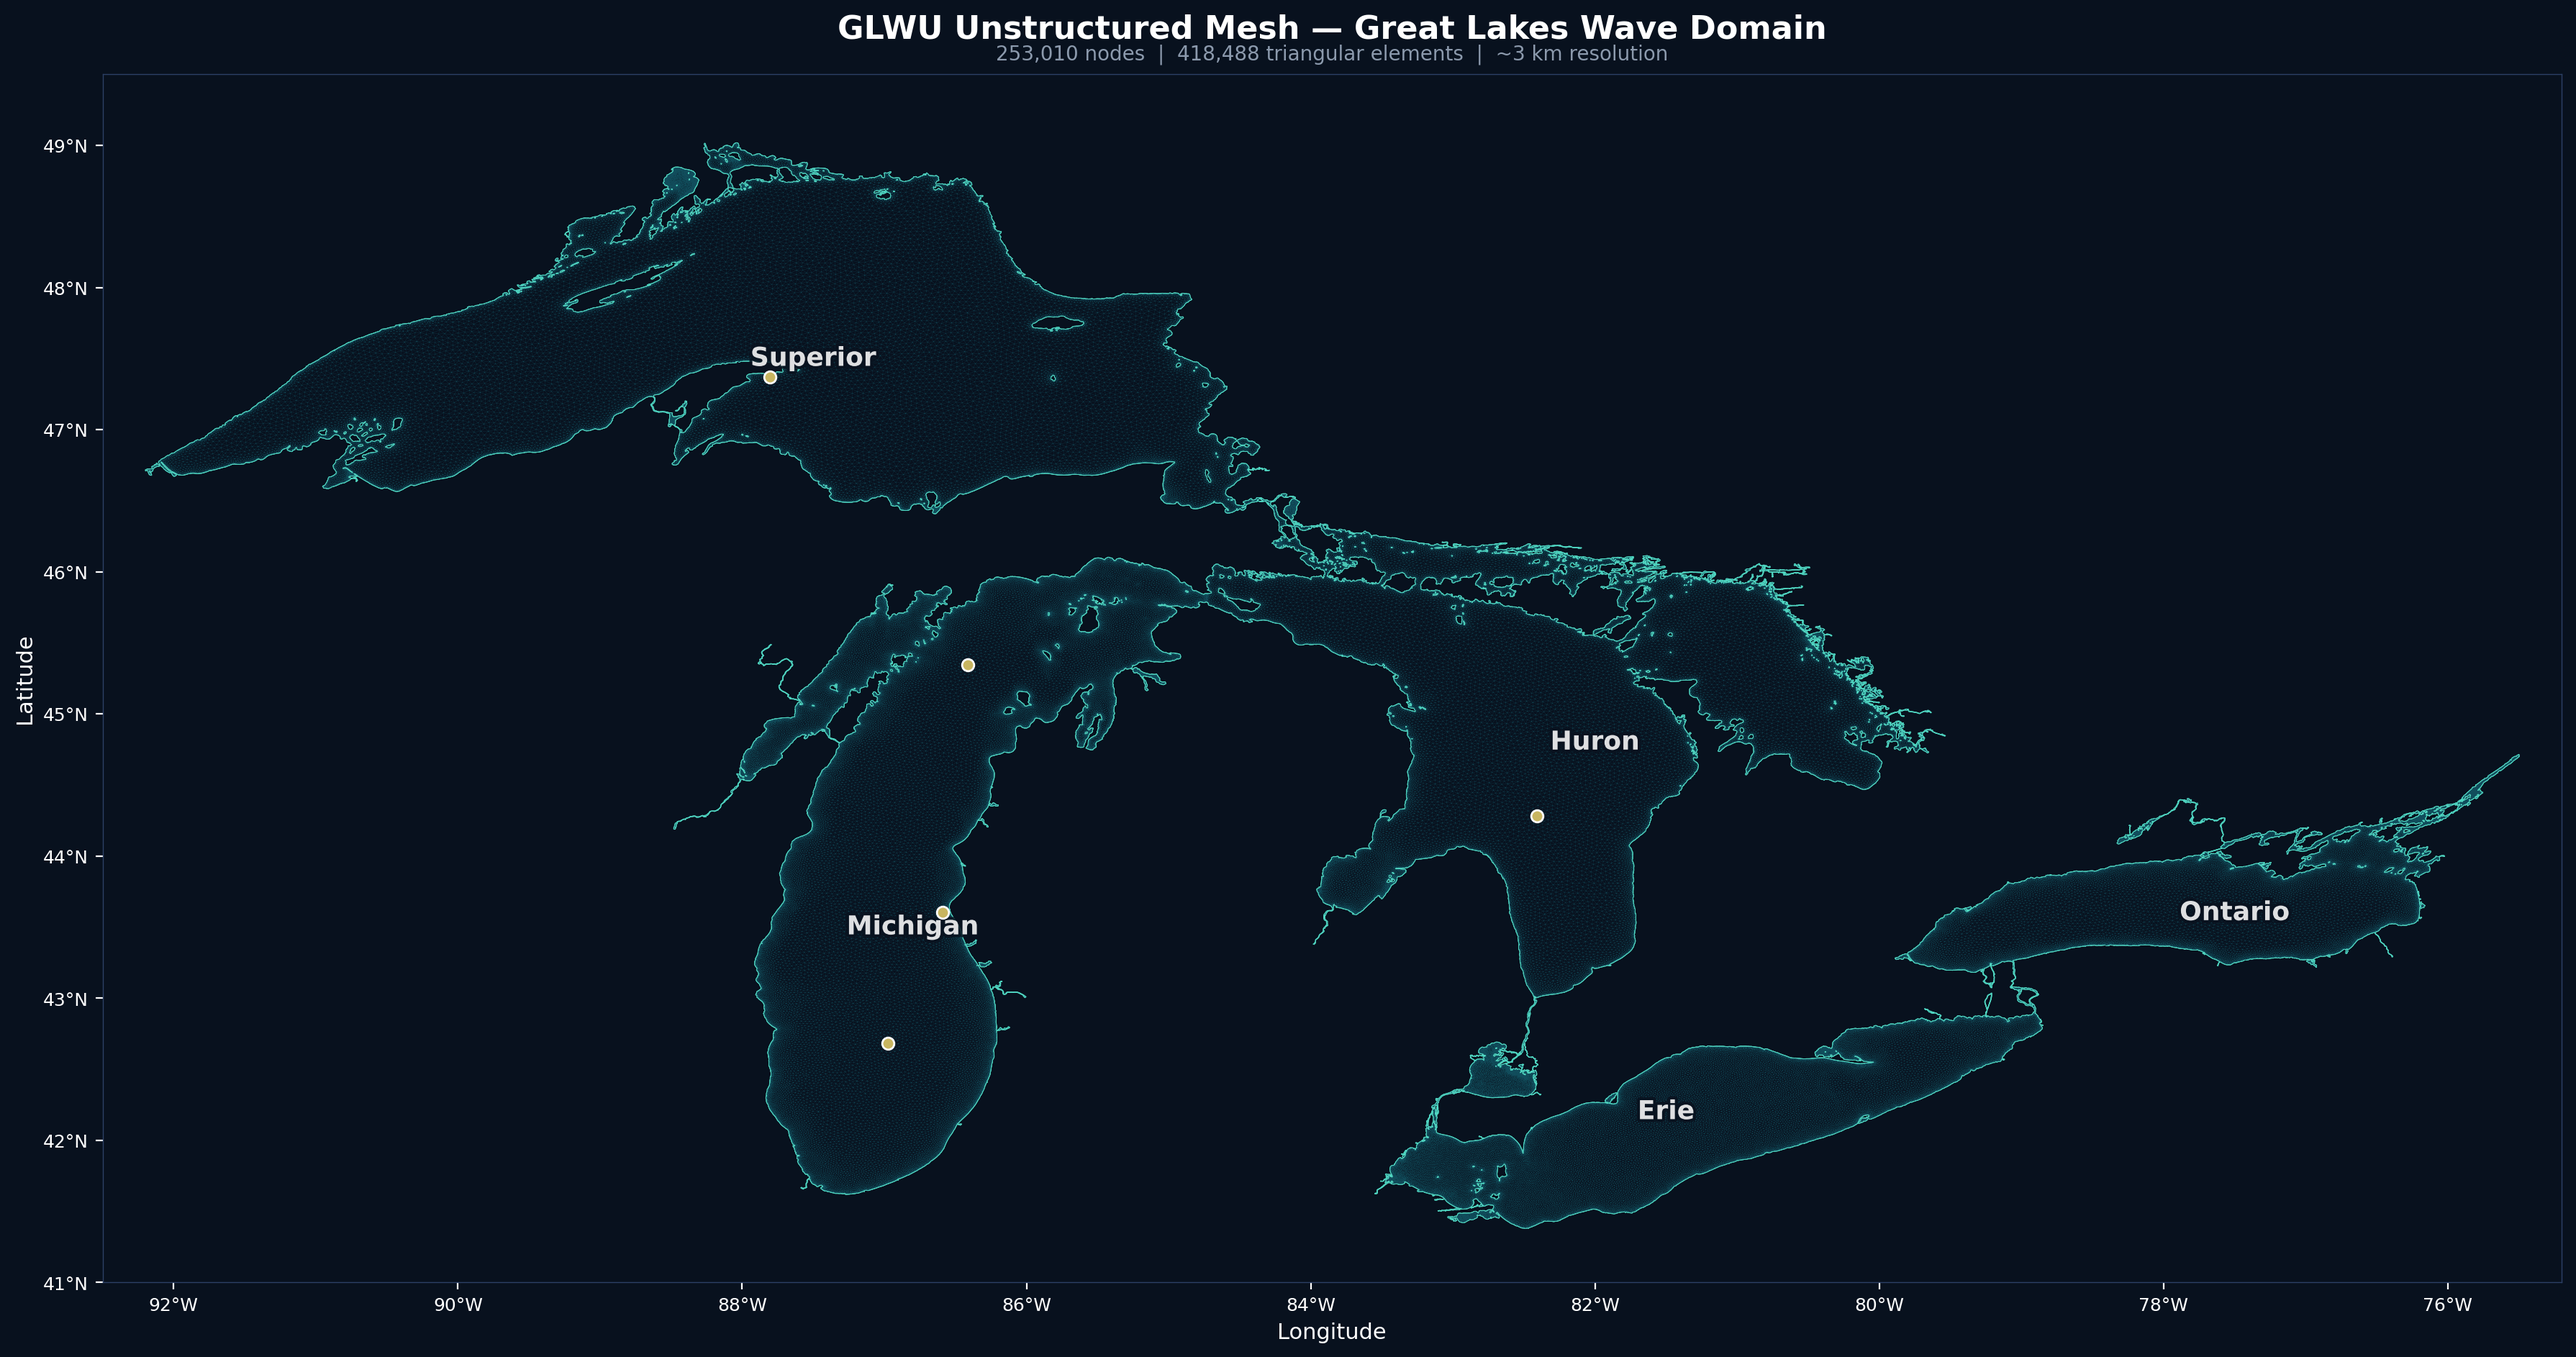
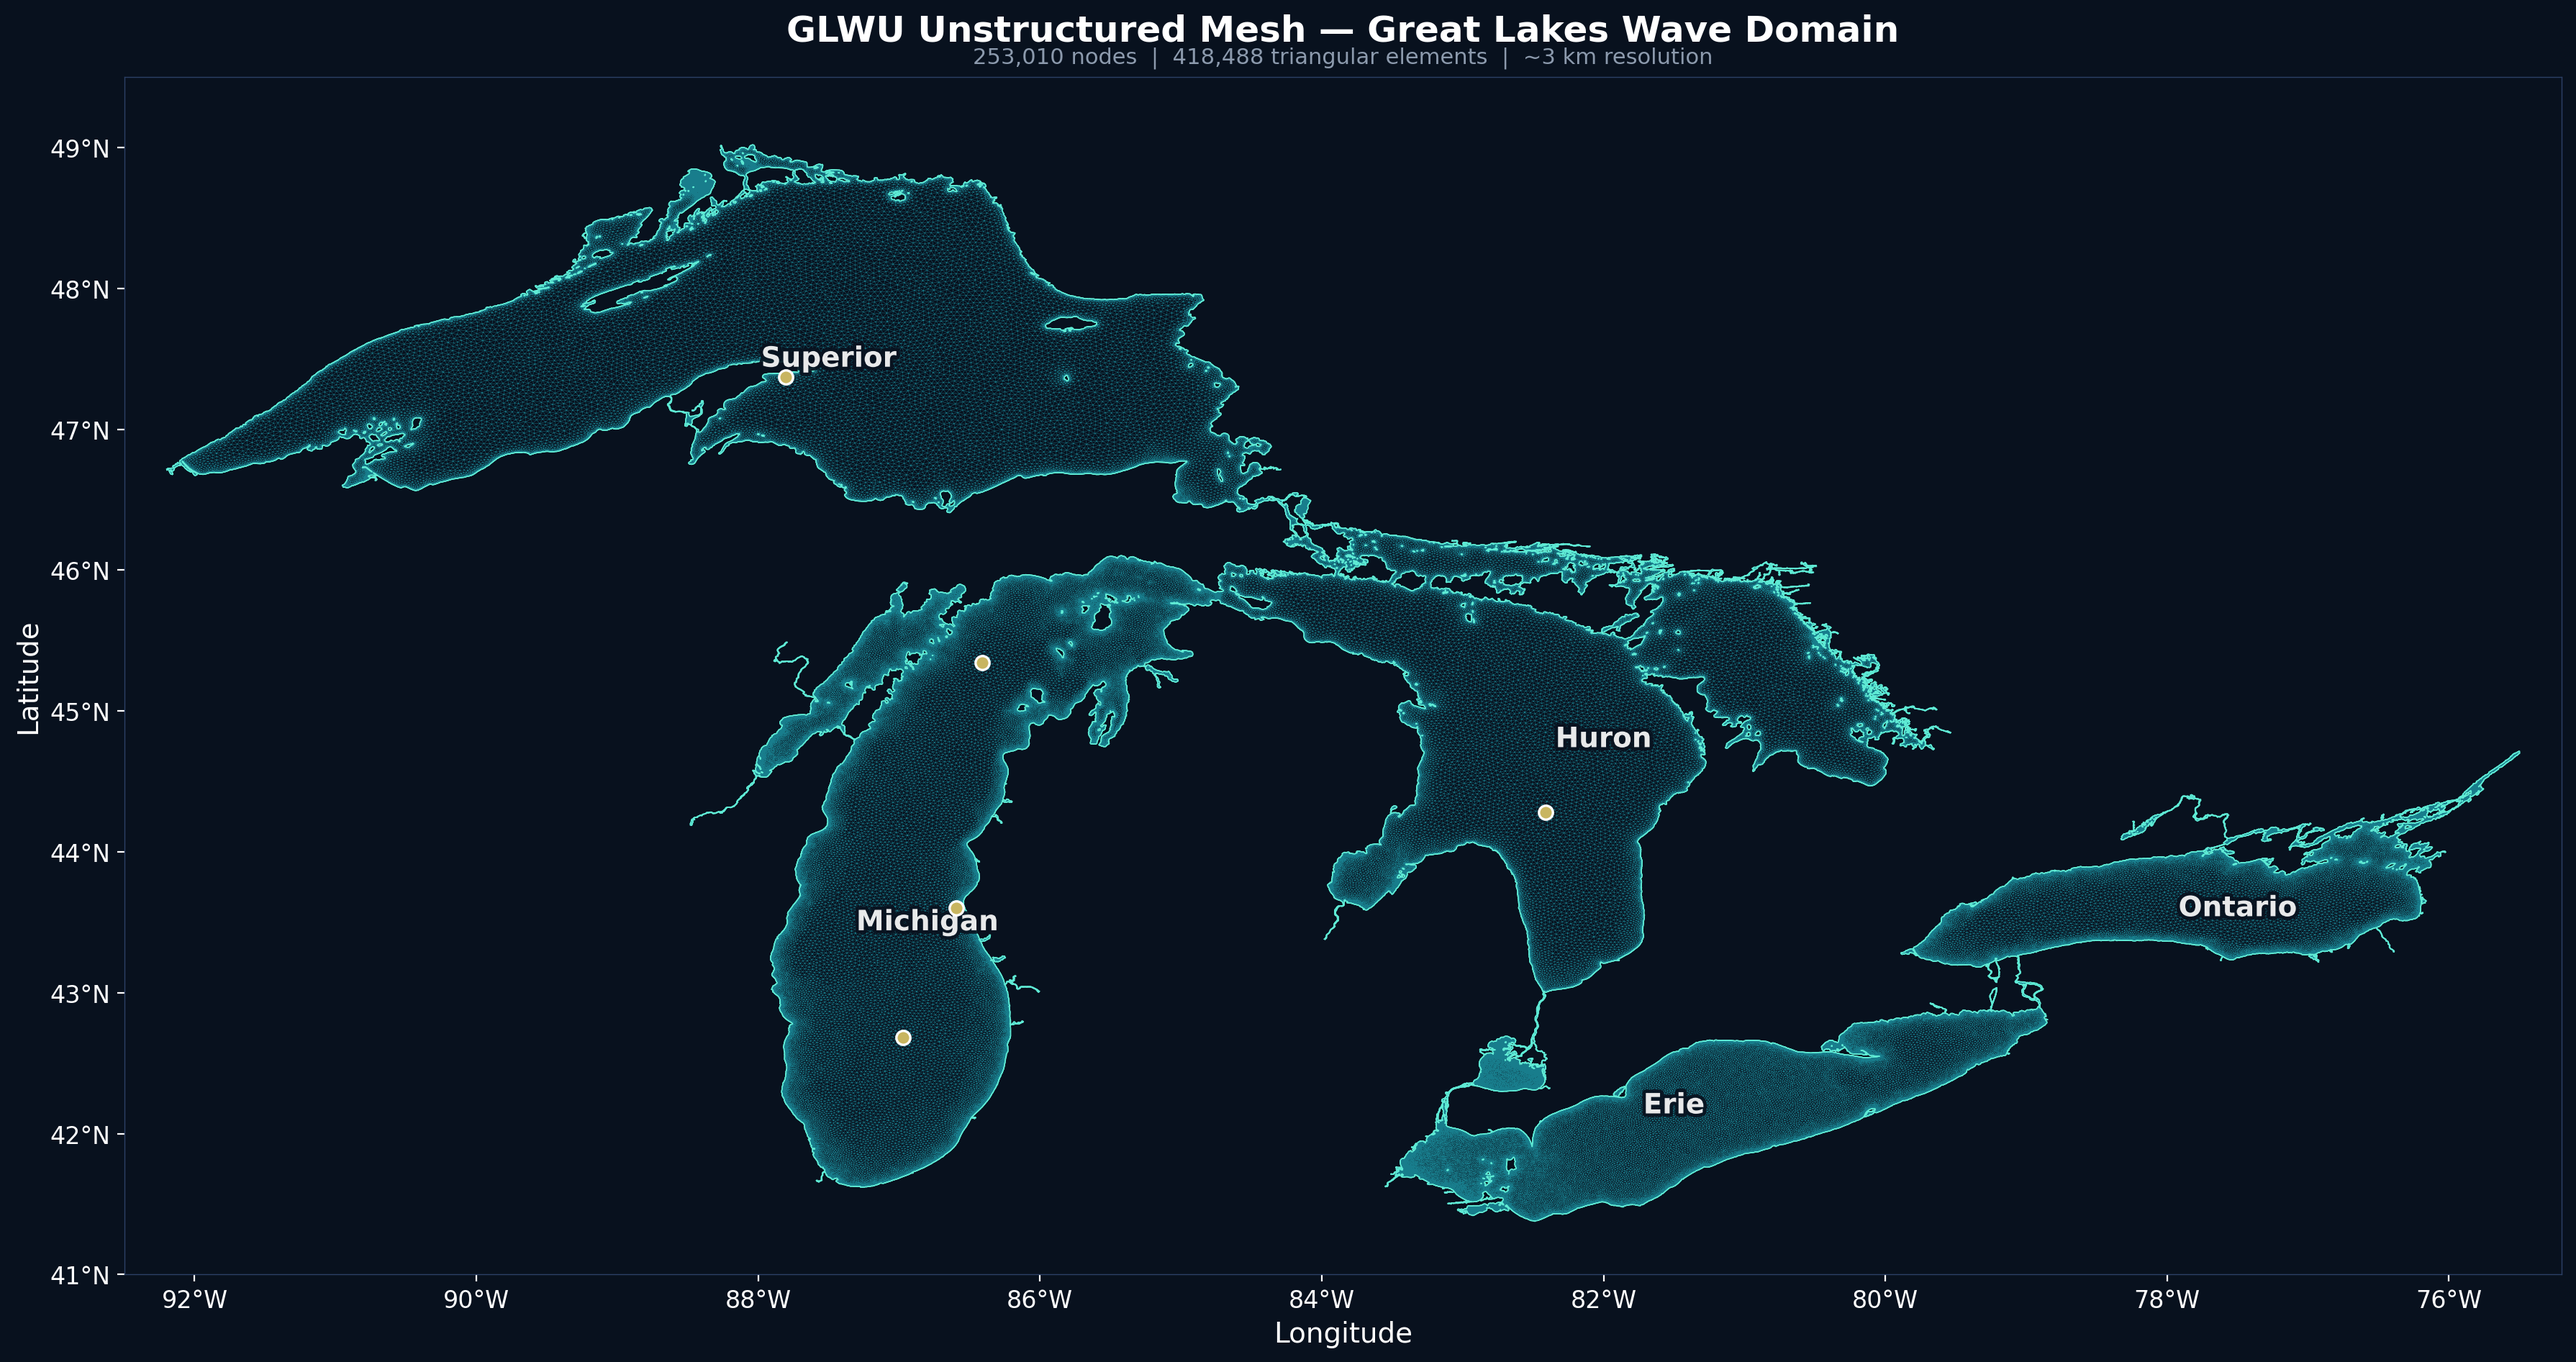
Add poster photo, rolling photo carousel, bolder mesh, larger axis fonts
- Added ice floe poster presentation photo (rotated)
- Photo strip now auto-scrolls continuously with seamless loop
  (duplicated set for infinite scroll effect), pauses on hover
- Regenerated mesh with heavier line weight (0.15 vs 0.08),
  higher opacity (0.65 vs 0.5), brighter color (#22b8c8)
- Coastline edges brighter (#60ecd6, 0.5px, 0.9 alpha)
- Axis labels bumped to 14pt, tick labels to 12pt
- Title bumped to 18pt, lake labels to 14pt

diff --git a/themes/academic/layouts/index.html b/themes/academic/layouts/index.html
@@ -234,21 +234,21 @@
   </div>
 </section>
 
-<!-- ===== PHOTO STRIP ===== -->
-<section class="photo-strip scroll-reveal">
-  <div class="photo-strip-inner">
-    <div class="photo-strip-item">
-      <img src="{{ "images/photo_presenting.jpg" | relURL }}" alt="Presenting at AMS Annual Meeting — The Importance of Great Lakes Waves">
-    </div>
-    <div class="photo-strip-item">
-      <img src="{{ "images/conference.jpg" | relURL }}" alt="At AMS with a Sofar Spotter wave buoy">
-    </div>
-    <div class="photo-strip-item">
-      <img src="{{ "images/photo_field1.jpg" | relURL }}" alt="Fieldwork with weather station instrumentation at Colorado School of Mines">
-    </div>
-    <div class="photo-strip-item">
-      <img src="{{ "images/photo_field2.jpg" | relURL }}" alt="M.S. Hydrology diploma from Colorado School of Mines">
-    </div>
+<!-- ===== ROLLING PHOTO STRIP ===== -->
+<section class="photo-strip">
+  <div class="photo-strip-track">
+    <!-- First set -->
+    <div class="photo-strip-item"><img src="{{ "images/photo_presenting.jpg" | relURL }}" alt="Presenting at AMS Annual Meeting"></div>
+    <div class="photo-strip-item"><img src="{{ "images/conference.jpg" | relURL }}" alt="At AMS with a Sofar Spotter wave buoy"></div>
+    <div class="photo-strip-item"><img src="{{ "images/photo_field1.jpg" | relURL }}" alt="Fieldwork with weather station at Colorado School of Mines"></div>
+    <div class="photo-strip-item"><img src="{{ "images/photo_new.jpg" | relURL }}" alt="Presenting ice floe parameterization poster at conference"></div>
+    <div class="photo-strip-item"><img src="{{ "images/photo_field2.jpg" | relURL }}" alt="M.S. Hydrology diploma from Colorado School of Mines"></div>
+    <!-- Duplicate set for seamless loop -->
+    <div class="photo-strip-item"><img src="{{ "images/photo_presenting.jpg" | relURL }}" alt="Presenting at AMS Annual Meeting"></div>
+    <div class="photo-strip-item"><img src="{{ "images/conference.jpg" | relURL }}" alt="At AMS with a Sofar Spotter wave buoy"></div>
+    <div class="photo-strip-item"><img src="{{ "images/photo_field1.jpg" | relURL }}" alt="Fieldwork with weather station at Colorado School of Mines"></div>
+    <div class="photo-strip-item"><img src="{{ "images/photo_new.jpg" | relURL }}" alt="Presenting ice floe parameterization poster at conference"></div>
+    <div class="photo-strip-item"><img src="{{ "images/photo_field2.jpg" | relURL }}" alt="M.S. Hydrology diploma from Colorado School of Mines"></div>
   </div>
 </section>
 

diff --git a/themes/academic/static/css/style.css b/themes/academic/static/css/style.css
@@ -761,14 +761,20 @@ h1, h2, h3, h4 {
   background: var(--navy-dark);
 }
 
-.photo-strip-inner {
+.photo-strip-track {
   display: flex;
   gap: 4px;
+  animation: photo-scroll 35s linear infinite;
+  width: max-content;
+}
+
+.photo-strip-track:hover {
+  animation-play-state: paused;
 }
 
 .photo-strip-item {
-  flex: 1;
-  min-width: 0;
+  flex-shrink: 0;
+  width: 360px;
   height: 280px;
   overflow: hidden;
   position: relative;
@@ -783,8 +789,13 @@ h1, h2, h3, h4 {
 }
 
 .photo-strip-item:hover img {
-  transform: scale(1.08);
+  transform: scale(1.06);
   filter: brightness(1);
+}
+
+@keyframes photo-scroll {
+  0% { transform: translateX(0); }
+  100% { transform: translateX(calc(-360px * 5 - 20px)); }
 }
 
 /* ============================================
@@ -1262,7 +1273,11 @@ h1, h2, h3, h4 {
     grid-template-columns: 1fr;
   }
 
-  .photo-strip-item { height: 200px; }
+  .photo-strip-item { width: 300px; height: 220px; }
+  @keyframes photo-scroll {
+    0% { transform: translateX(0); }
+    100% { transform: translateX(calc(-300px * 5 - 20px)); }
+  }
 
   .research-card { grid-template-columns: 1fr; }
   .research-figure { min-height: 160px; }
@@ -1301,8 +1316,11 @@ h1, h2, h3, h4 {
   .stat-number { font-size: 2rem; }
   .stat-card { padding: 1.25rem 0.75rem; }
 
-  .photo-strip-inner { flex-wrap: wrap; }
-  .photo-strip-item { flex: 1 1 48%; height: 180px; }
+  .photo-strip-item { width: 260px; height: 180px; }
+  @keyframes photo-scroll {
+    0% { transform: translateX(0); }
+    100% { transform: translateX(calc(-260px * 5 - 20px)); }
+  }
 
   .page-title { font-size: 1.7rem; }
   .container { padding: 0 1.25rem; }
